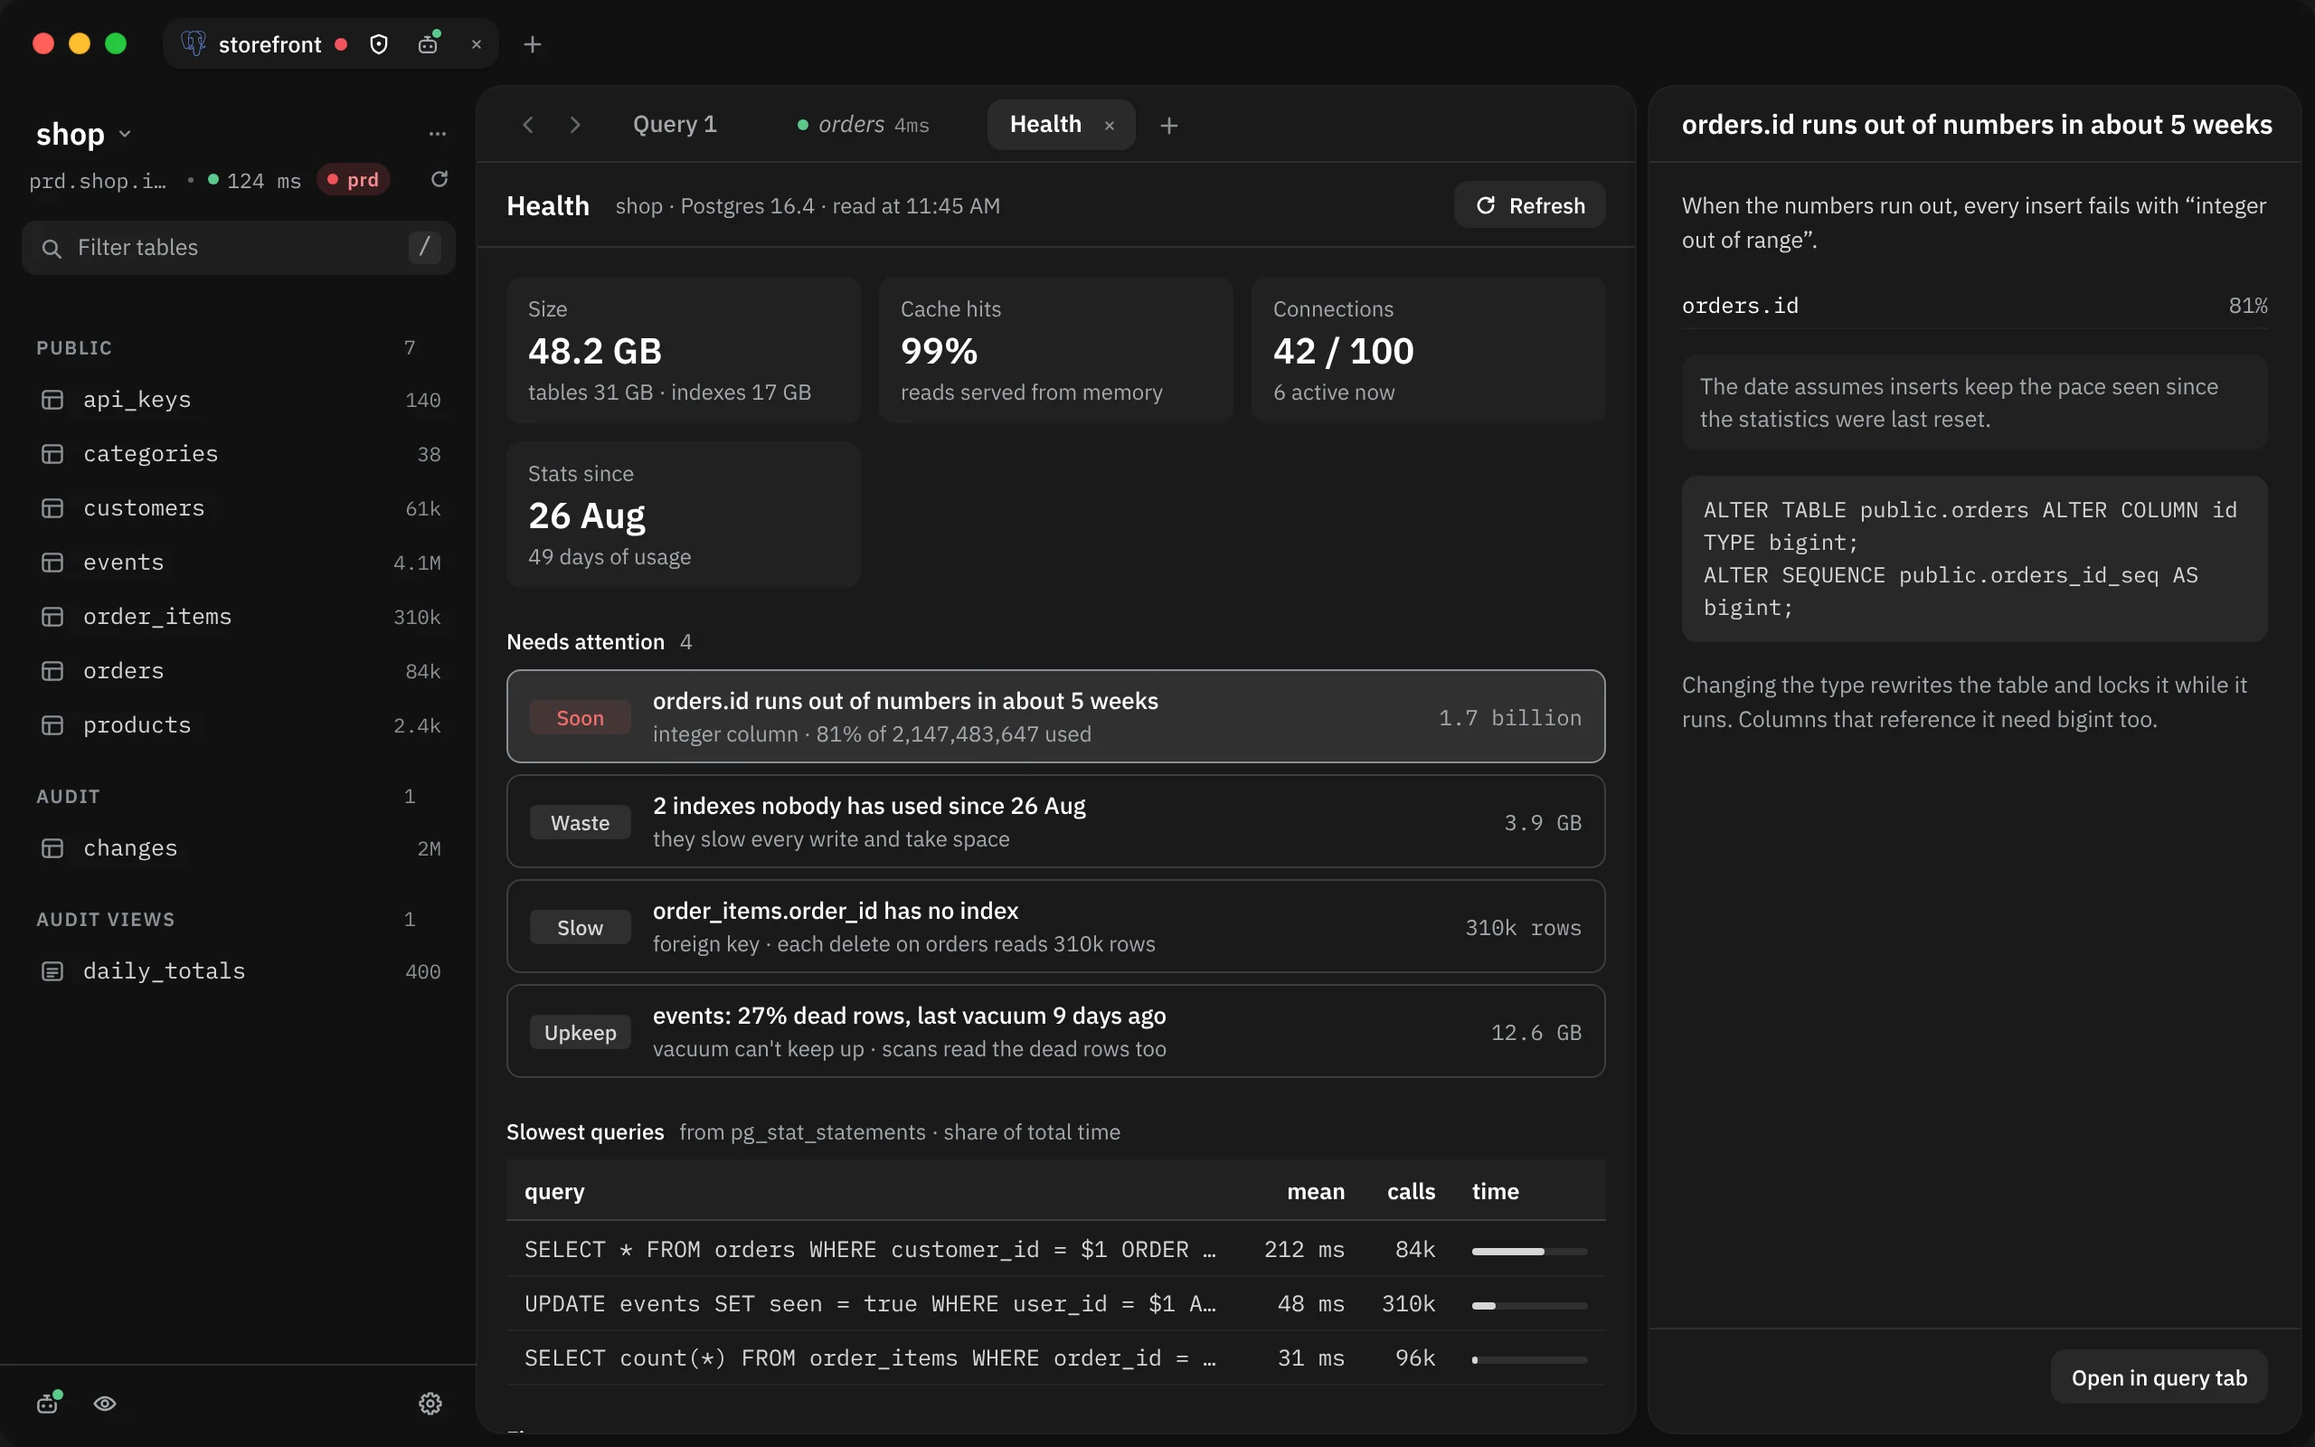
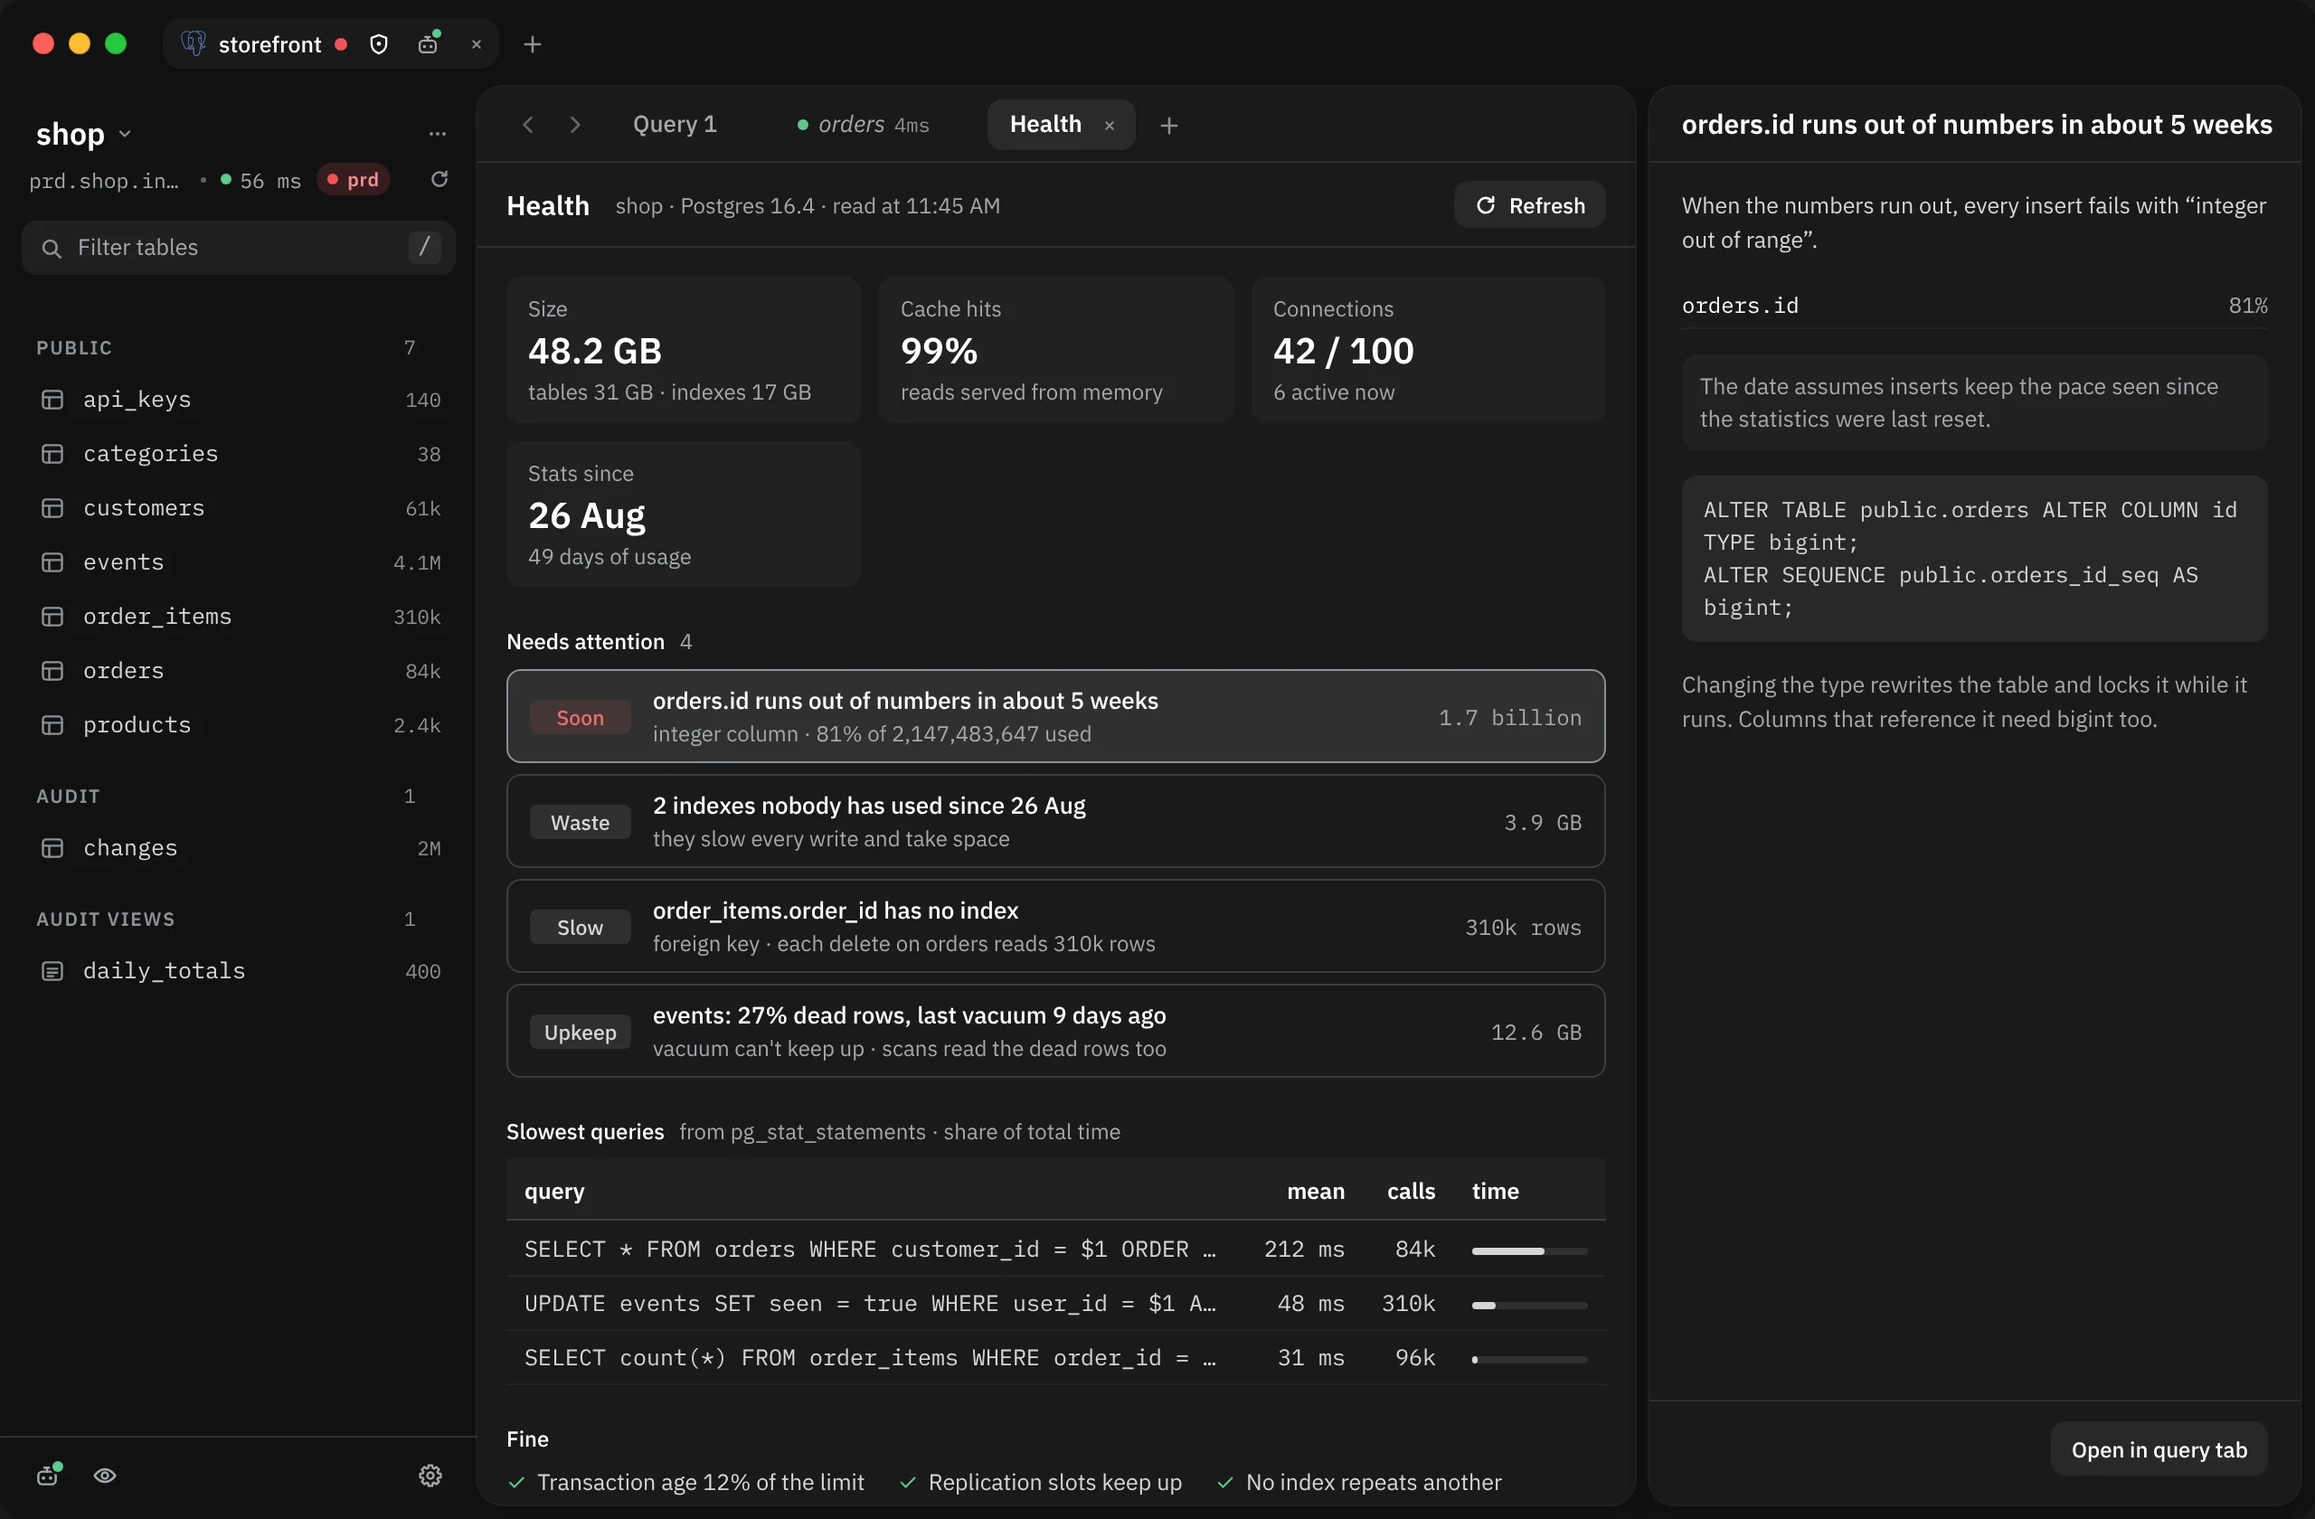
docs: README review fixes, and beta instead of alpha (#148)
* docs: README review fixes, and beta instead of alpha

Two README claims overstated what the MCP server does: the row cap is
fixed (1,000 at most), not set per connection, and Commit re-checks that
each statement changes as many rows as the dry run showed, not that the
rows are the same ones. One sentence folded into the one before it.

The README says beta, so SECURITY.md, the docs and the website's FAQ
now say beta too instead of alpha.

readme-shots.mjs refuses --write (the docs' flag, which would have put
its screens into apps/docs/public/img), names the real default outDir,
loses an unused clip parameter, and takes the Health screen 40 px
taller so the Fine row isn't cut.

* fix(tests): give the connection records in tests the mcp_timeout_s field

main has not compiled its test targets since #143: the connection records
built in rowkery-mcp's proposals tests and rowkery-bridge's tests predate
the per-connection query limit (#140) and lack its field.

* docs: the Mac app is signed and notarized from 1.0.0

Drop the Open Anyway and xattr steps from the README, the site's Get
Rowkery box and FAQ, and the docs' quick setup. Troubleshooting keeps
them for self-built copies and pre-1.0.0 downloads, and the keychain
section says the update to 1.0.0 asks once more, then never again.

* docs: Apple notarizes; the app is signed with its Developer ID

---------

diff --git a/apps/web/components/Close.tsx b/apps/web/components/Close.tsx
@@ -1,9 +1,8 @@
-import { DOCS_URL, UNQUARANTINE } from "@/lib/site";
-import { CopyButton } from "./CopyButton";
+import { DOCS_URL } from "@/lib/site";
 import { DownloadButton } from "./Download";
 import { Pg } from "./Pg";
 
-/** Get Rowkery: the plain logo, Download, and the one line the unsigned alpha needs before its first launch. */
+/** Get Rowkery: the plain logo, Download and the docs. */
 export function Close() {
   return (
     <div className="wrap" id="get">
@@ -16,14 +15,6 @@ export function Close() {
           <a className="btn lg" href={DOCS_URL}>
             Read the docs
           </a>
-        </div>
-        <p className="label">Before the first launch</p>
-        <div className="box">
-          <CopyButton text={UNQUARANTINE} />
-          <code>
-            <span className="p">$ </span>
-            {UNQUARANTINE}
-          </code>
         </div>
       </div>
     </div>

diff --git a/apps/web/components/Faq.tsx b/apps/web/components/Faq.tsx
@@ -4,7 +4,7 @@ const QUESTIONS = [
   ["Which databases does it support?", "Postgres, including Google Cloud SQL, and SQLite. More are on the way."],
   ["Does my data go through your servers?", "No. Rowkery connects straight from your Mac to your database."],
   ["Which agents work with it?", "Claude Code and Claude Desktop in one click. Cursor and other MCP clients with a short config entry."],
-  ["Why does macOS warn me the first time?", "The alpha isn’t signed by Apple yet. Run the line under Get Rowkery once before the first launch, and it opens like any other app."],
+  ["Is the app signed?", "Yes. Rowkery is signed and notarized by Apple, so it opens like any other app, and every update is signed too."],
 ];
 
 export function Faq() {

diff --git a/apps/web/app/globals.css b/apps/web/app/globals.css
@@ -196,8 +196,6 @@ h2 { font-weight: 500; font-size: clamp(32px, 4.2vw, 50px); line-height: 1.08; l
 #get { scroll-margin-top: 70px; }
 .close { max-width: 1040px; margin: 0 auto; padding: 72px 24px 64px; background: var(--soft); border-radius: 26px; text-align: center; }
 .close .mark { width: 60px; height: 65px; margin: 0 auto 22px; }
-.close .label, .close .box { max-width: 600px; margin-left: auto; margin-right: auto; text-align: left; }
-.close .label { margin-top: 40px; padding-left: 4px; }
 
 /* The foot. */
 .foot { padding-block: 40px 48px; }

diff --git a/apps/web/lib/site.ts b/apps/web/lib/site.ts
@@ -13,9 +13,6 @@ export const SPONSOR_URL = "https://github.com/sponsors/rowkery";
 /** The documentation site, apps/docs. */
 export const DOCS_URL = "https://docs.rowkery.com";
 
-/** The command that lets macOS open the app while it isn't signed. */
-export const UNQUARANTINE = "xattr -dr com.apple.quarantine /Applications/Rowkery.app";
-
 /** The latest release's notes, and Lucas's own site (the footer's Made by). */
 export const RELEASE_NOTES_URL = `${REPO_URL}/releases/latest`;
 export const MAKER_URL = "https://lucascodes.dev";

diff --git a/apps/docs/lib/site.ts b/apps/docs/lib/site.ts
@@ -5,5 +5,3 @@ export const RELEASES_URL = `${REPO_URL}/releases/latest`;
 /** Where "Edit this page" points: the docs' own folder on the default branch. */
 export const EDIT_BASE = `${REPO_URL}/edit/main/apps/docs/app`;
 
-/** The command that lets macOS open the app while it isn't signed. */
-export const UNQUARANTINE = "xattr -dr com.apple.quarantine /Applications/Rowkery.app";

diff --git a/crates/rowkery-core/src/secrets.rs b/crates/rowkery-core/src/secrets.rs
@@ -356,7 +356,7 @@ const NEWER_KINDS: [SecretKind; 2] = [SecretKind::MaskKey, SecretKind::GcpKey];
 
 /// A connection's secrets, by kind label: the JSON held in its one keychain
 /// item. One item per connection means macOS asks once per connection (after
-/// each unsigned build), and the MCP server only ever reads the items of the
+/// each self-built copy), and the MCP server only ever reads the items of the
 /// connections it was given.
 type Item = std::collections::BTreeMap<String, String>;
 

diff --git a/apps/web/README.md b/apps/web/README.md
@@ -3,11 +3,11 @@
 **The quiet page** (2026-10-25, from the approved mock modelled on reasonmachines.com/network): one calm, centred column on a light page under a floating rounded bar. Each section is a heading, a line and one thing to look at. Light only.
 
 - **Look:** everything is in `app/globals.css`. Near-white page, IBM Plex Sans for text and headings (500), IBM Plex Mono for commands. Ink pills are Download; outlined pills are everything else; the command boxes are dark like a terminal. Orange is the one accent: the How it works stage, the dot on the version pill, focus rings. No gradients, glows or blur.
-- **Order** (agent first, then security, then ⌘K; the site must not read as "you need AI"): the plain logo, *A database app for you and your agent*, Download and Read the docs; *How Rowkery works*, three steps that play in turn (Ask your agent, Say yes before anything changes, Or do it yourself); *Works with the agents you already use* with Claude Code's one-line command; *Safe, private and free*; *Quick from the keyboard* (two looping clips); *Questions*; *Get Rowkery* with the unquarantine command; the foot. Every word is real markup, so it shows without scripts and gets indexed.
+- **Order** (agent first, then security, then ⌘K; the site must not read as "you need AI"): the plain logo, *A database app for you and your agent*, Download and Read the docs; *How Rowkery works*, three steps that play in turn (Ask your agent, Say yes before anything changes, Or do it yourself); *Works with the agents you already use* with Claude Code's one-line command; *Safe, private and free*; *Quick from the keyboard* (two looping clips); *Questions*; *Get Rowkery*; the foot. Every word is real markup, so it shows without scripts and gets indexed.
 - **Clips** (`public/clips`): the real app filmed in its light theme with the docs screen helpers (`openApp({ scheme: "light" })` and `record()` in `scripts/docs-shots/lib.mjs`: the app on Vite with its stubbed backend, screencast to H.264), each with a JPEG poster of its first frame. The agent's chat in the first step is drawn (`components/How.tsx`), since it lives in Claude, not in Rowkery.
 - **Motion:** everything moves by transform or opacity. The opening settles in once on load; each other block rises into place the first time it scrolls into view (`components/Motion.tsx`; a head script in `app/layout.tsx` marks the page `data-js` first, and takes the mark off if the page's scripts never start). How it works plays only while on screen: the chat lines switch in by class, the pager bars fill by Web Animations that follow the clip (they wait while it buffers, and a step ends when its clip does), and the steps crossfade on layers kept with `will-change`, so a step change repaints next to nothing. The keyboard clips loop while on screen and load only when they come near. There is no frame loop. Under Reduce Motion nothing moves or hides: the chat shows whole, the bars are full, the clips stay on their posters with controls.
 - **The penguin** (`Pg.tsx`): the mark itself, an inline path in an SVG with overflow visible, never a `<symbol>` behind `<use>` (a symbol clips to the view box that uses it). It is the plain logo everywhere on this page; its eyelid blinks on hover.
-- **Copy facts:** one-click setup is only for Claude Desktop and Claude Code; any other MCP client runs `Rowkery --mcp`. No offline claims (the app checks for updates). No millisecond figures for the app's own speed until the known window-switch slowdown is fixed. No signing promises: the Mac app isn't signed yet. Headings carry no full stops.
+- **Copy facts:** one-click setup is only for Claude Desktop and Claude Code; any other MCP client runs `Rowkery --mcp`. No offline claims (the app checks for updates). No millisecond figures for the app's own speed until the known window-switch slowdown is fixed. The Mac app is signed and notarized by Apple from 1.0.0. Headings carry no full stops.
 - **Fonts** (SIL OFL, self-hosted from `app/fonts` through `next/font/local`): IBM Plex Sans (400, 500), IBM Plex Mono (400, 500).
 - **Stack:** Next.js (App Router, TypeScript), static export, plain CSS.
 

diff --git a/README.md b/README.md
@@ -14,7 +14,7 @@
 
 # Rowkery
 
-Rowkery is a Mac app for Postgres and SQLite. You browse and edit your data from the keyboard, and you can share the tables you pick with an AI agent, which reads them through a server built into the app. An agent can read what you share, and only you can change anything.
+Rowkery is a Mac app for Postgres and SQLite. You browse and edit your data from the keyboard, and you can share the tables you pick with an AI agent, which reads them through a server built into the app. Only you can change anything.
 
 It's free and open source, there's no account, and it connects straight from your Mac to your database.
 
@@ -60,10 +60,10 @@ The agent can list what you shared, describe tables, search the schema, explain 
 
 What keeps it in bounds:
 
-- **Reads only.** Each query is one SELECT on a read-only session, with a row cap and a time limit you set per connection. Writes, schema changes and a second statement are refused before anything reaches the database.
+- **Reads only.** Each query is one SELECT on a read-only session, with at most 1,000 rows an answer and a time limit you set per connection. Writes, schema changes and a second statement are refused before anything reaches the database.
 - **Only what you shared.** A query that reads a table you didn't share is refused, through views and joins too. A query that reads a big table end to end is refused as well, so an agent can't load a production server.
 - **Sensitive columns.** Mark a column sensitive and the agent only ever gets a stand-in for its values. Presenting hides the same columns on your own screen.
-- **Changes wait for you.** A proposed change lands on the Agents page with a dry run. Nothing runs until you press Commit, and the commit runs only if the rows are still the ones the dry run showed.
+- **Changes wait for you.** A proposed change lands on the Agents page with a dry run. Nothing runs until you press Commit, and the commit runs only if each statement still changes as many rows as the dry run showed.
 - **Every call is logged.** The Agents page shows each call with what was shared at the time, the request as sent and the start of the response.
 
 In clients that draw MCP Apps views, the agent's rows show as a grid in the chat and a proposal as a live card, each with a button that opens it in Rowkery. The [docs](https://docs.rowkery.com/connecting-to-agents/) cover every tool, limit and check.
@@ -77,15 +77,10 @@ In clients that draw MCP Apps views, the agent's rows show as a grid in the chat
 
 ## Download
 
-Rowkery is in beta and runs on macOS (Apple Silicon and Intel). Linux and Windows build from source, but they aren't released or tested the way the Mac app is.
+Rowkery is in beta and runs on macOS (Apple Silicon and Intel). The app is signed and notarized by Apple. Linux and Windows build from source, but they aren't released or tested the way the Mac app is.
 
 1. Download the `.dmg` from the [latest release](https://github.com/rowkery/rowkery/releases/latest).
 2. Open it and drag **Rowkery** into **Applications**.
-3. This build isn't signed by Apple yet, so macOS blocks the first launch. Choose **Open Anyway** in System Settings › Privacy & Security, or run:
-
-   ```bash
-   xattr -dr com.apple.quarantine /Applications/Rowkery.app
-   ```
 
 The first launch opens a small sample database with its first query already run. Rowkery checks for updates after launch and installs them when you restart it; **Settings › Updates** (⌘,) chooses how. What changed in each version is in the [release notes](https://github.com/rowkery/rowkery/releases).
 

diff --git a/SECURITY.md b/SECURITY.md
@@ -7,7 +7,7 @@ Please report it privately, not in a public issue:
 - **GitHub:** use [private vulnerability reporting](https://github.com/rowkery/rowkery/security/advisories/new) on `rowkery/rowkery`.
 - **Email:** security@rowkery.com.
 
-Say what you found, how to reproduce it, and which version you ran (**Rowkery › About Rowkery**). We aim to answer within a week and will tell you when a fix ships. Rowkery is in alpha, so fixes go into the next release; there are no backports.
+Say what you found, how to reproduce it, and which version you ran (**Rowkery › About Rowkery**). We aim to answer within a week and will tell you when a fix ships. Rowkery is in beta, so fixes go into the next release; there are no backports.
 
 ## In scope
 
